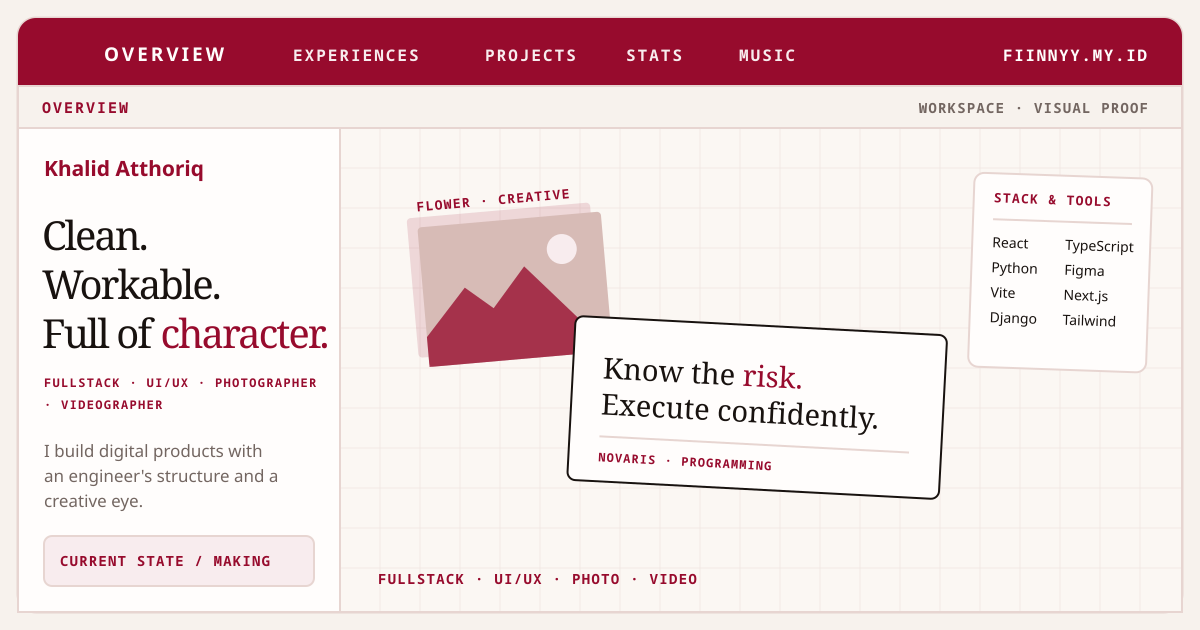
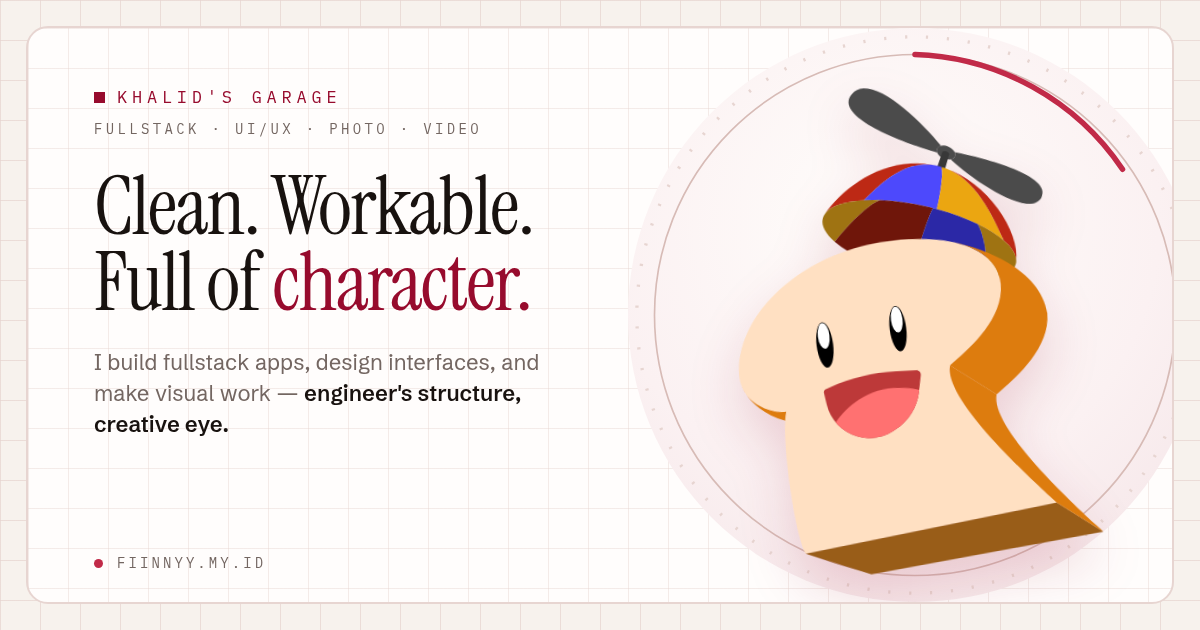
feat(og): redesign share card around the bread, first-person copy
Replace the hero-mirroring preview with a poster-style 1200x630 card: the bread mascot is the main attraction on an instrument-cluster dial, and the copy is first-person ('I build fullstack apps...'). Name the card 'Khalid's Garage'.

Add scripts/og-template.html + scripts/generate-og.mjs (npm run og) so the card is reproducible from the site's real fonts and palette via headless Chrome. Make scripts/deploy.mjs idempotent so deploys stop duplicating the 'main' key in wrangler.jsonc.

Amp-Thread-ID: https://ampcode.com/threads/T-01a105d5-7014-724a-adb2-18d53cb8af79

diff --git a/scripts/og-template.html b/scripts/og-template.html
@@ -1,0 +1,206 @@
+<!doctype html>
+<html lang="en">
+<head>
+<meta charset="utf-8" />
+<title>finny — og card</title>
+<style>
+  /* Real site fonts, referenced from public/fonts so the card carries the
+     same voice as the site. Rendered headlessly to public/og-image.png. */
+  @font-face {
+    font-family: "Schibsted Grotesk";
+    src: url("../public/fonts/schibstedgrotesk-variable.woff2") format("woff2-variations");
+    font-weight: 400 700;
+    font-style: normal;
+  }
+  @font-face {
+    font-family: "IBM Plex Mono";
+    src: url("../public/fonts/ibmplexmono-regular.woff2") format("woff2");
+    font-weight: 400;
+    font-style: normal;
+  }
+  @font-face {
+    font-family: "Instrument Serif";
+    src: url("../public/fonts/instrumentserif-regular.woff2") format("woff2");
+    font-weight: 400;
+    font-style: normal;
+  }
+  @font-face {
+    font-family: "Instrument Serif";
+    src: url("../public/fonts/instrumentserif-italic.woff2") format("woff2");
+    font-weight: 400;
+    font-style: italic;
+  }
+
+  :root {
+    --wall: #f7f2ed;
+    --paper: #fffdfc;
+    --ink: #18120f;
+    --graphite: #736661;
+    --mist: #a08f89;
+    --line: #e7d5d1;
+    --deep-line: #d7bbb6;
+    --brand: #970b2d;
+    --rosso: #c12a48;
+    --blush: #f8ecee;
+  }
+
+  * { margin: 0; padding: 0; box-sizing: border-box; }
+
+  html, body { width: 1200px; height: 630px; overflow: hidden; }
+
+  body {
+    font-family: "Schibsted Grotesk", sans-serif;
+    color: var(--ink);
+    background-color: var(--wall);
+    background-image:
+      linear-gradient(to right, rgba(231, 213, 209, 0.75) 1px, transparent 1px),
+      linear-gradient(to bottom, rgba(231, 213, 209, 0.75) 1px, transparent 1px);
+    background-size: 40px 40px;
+    -webkit-font-smoothing: antialiased;
+  }
+
+  .frame {
+    position: absolute;
+    inset: 26px;
+    border: 2px solid var(--line);
+    border-radius: 22px;
+    background: var(--paper);
+    background-image:
+      linear-gradient(to right, rgba(231, 213, 209, 0.45) 1px, transparent 1px),
+      linear-gradient(to bottom, rgba(231, 213, 209, 0.45) 1px, transparent 1px);
+    background-size: 40px 40px;
+    overflow: hidden;
+  }
+
+  /* ---- left: editorial column ---- */
+  .copy {
+    position: absolute;
+    left: 66px;
+    top: 58px;
+    width: 560px;
+    height: 486px;
+    display: flex;
+    flex-direction: column;
+  }
+
+  .eyebrow {
+    display: flex;
+    align-items: center;
+    gap: 12px;
+    font-family: "IBM Plex Mono", monospace;
+    font-size: 17px;
+    font-weight: 400;
+    letter-spacing: 0.28em;
+    text-transform: uppercase;
+    color: var(--brand);
+  }
+  .eyebrow .mark {
+    width: 11px;
+    height: 11px;
+    background: var(--brand);
+    flex: none;
+  }
+
+  .role {
+    margin-top: 12px;
+    font-family: "IBM Plex Mono", monospace;
+    font-size: 14px;
+    letter-spacing: 0.24em;
+    text-transform: uppercase;
+    color: var(--graphite);
+  }
+
+  h1 {
+    margin-top: 30px;
+    font-family: "Instrument Serif", Georgia, serif;
+    font-weight: 400;
+    font-size: 82px;
+    line-height: 0.93;
+    letter-spacing: -0.02em;
+    color: var(--ink);
+  }
+  h1 .accent { color: var(--brand); }
+
+  .lede {
+    margin-top: 26px;
+    max-width: 470px;
+    font-size: 22px;
+    line-height: 1.42;
+    color: var(--graphite);
+  }
+  .lede strong { color: var(--ink); font-weight: 600; }
+
+  .foot {
+    margin-top: auto;
+    display: flex;
+    align-items: center;
+    gap: 14px;
+    font-family: "IBM Plex Mono", monospace;
+    font-size: 14px;
+    letter-spacing: 0.22em;
+    text-transform: uppercase;
+    color: var(--graphite);
+  }
+  .foot .dot {
+    width: 9px;
+    height: 9px;
+    border-radius: 50%;
+    background: var(--rosso);
+    flex: none;
+  }
+  .foot .url { color: var(--brand); }
+
+  /* ---- right: the bread, on a dial ---- */
+  .dial {
+    position: absolute;
+    right: -30px;
+    top: 50%;
+    transform: translateY(-50%);
+    width: 574px;
+    height: 574px;
+  }
+  .disc {
+    position: absolute;
+    inset: 0;
+    border-radius: 50%;
+    background: radial-gradient(circle at 44% 34%, #fffdfb 0%, #fbf1f2 56%, #f3e2e5 100%);
+  }
+  .bread {
+    position: absolute;
+    left: 50%;
+    bottom: 30px;
+    transform: translateX(-50%) rotate(-3deg);
+    height: 486px;
+    filter: drop-shadow(0 24px 26px rgba(151, 11, 45, 0.16));
+  }
+</style>
+</head>
+<body>
+  <div class="frame">
+    <div class="copy">
+      <p class="eyebrow"><span class="mark"></span>Khalid's Garage</p>
+      <p class="role">Fullstack · UI/UX · Photo · Video</p>
+
+      <h1>Clean. Workable.<br />Full of <span class="accent">character.</span></h1>
+
+      <p class="lede">
+        I build fullstack apps, design interfaces, and make visual work —
+        <strong>engineer's structure, creative eye.</strong>
+      </p>
+
+      <p class="foot"><span class="dot"></span>fiinnyy.my.id</p>
+    </div>
+
+    <div class="dial">
+      <svg class="disc" viewBox="0 0 520 520" fill="none" aria-hidden="true">
+        <!-- tick ring — instrument-cluster nod -->
+        <circle cx="260" cy="260" r="252" fill="none" stroke="#e7d5d1" stroke-width="3" stroke-dasharray="2 17" />
+        <circle cx="260" cy="260" r="236" fill="none" stroke="#d7bbb6" stroke-width="1.5" />
+        <!-- redline arc -->
+        <path d="M 260 24 A 236 236 0 0 1 448 128" fill="none" stroke="#c12a48" stroke-width="5" stroke-linecap="round" />
+      </svg>
+      <img class="bread" src="../public/icons/logo-navbar.svg" alt="" />
+    </div>
+  </div>
+</body>
+</html>

diff --git a/src/routes/__root.tsx b/src/routes/__root.tsx
@@ -54,22 +54,22 @@ function RootComponent() {
         />
         <link rel="icon" type="image/svg+xml" href="/icons/logo-web.svg" />
         <title>Khalid Atthoriq | Fullstack Creative Developer</title>
-        <meta name="description" content="Khalid Atthoriq is a Fullstack Creative Developer working across digital products, UI/UX, photography, and video." />
+        <meta name="description" content="I'm Khalid Atthoriq — I build fullstack apps, design interfaces, and make visual work with an engineer's structure and a creative eye." />
         <link rel="canonical" href="https://fiinnyy.my.id/" />
         <meta property="og:type" content="website" />
         <meta property="og:site_name" content="Khalid Atthoriq" />
         <meta property="og:title" content="Khalid Atthoriq | Fullstack Creative Developer" />
-        <meta property="og:description" content="Khalid Atthoriq is a Fullstack Creative Developer working across digital products, UI/UX, photography, and video." />
+        <meta property="og:description" content="I'm Khalid Atthoriq — I build fullstack apps, design interfaces, and make visual work with an engineer's structure and a creative eye." />
         <meta property="og:url" content="https://fiinnyy.my.id/" />
         <meta property="og:image" content="https://fiinnyy.my.id/og-image.png" />
-        <meta property="og:image:alt" content="Khalid Atthoriq portfolio preview" />
+        <meta property="og:image:alt" content="Khalid Atthoriq — Clean. Workable. Full of character." />
         <meta property="og:image:width" content="1200" />
         <meta property="og:image:height" content="630" />
         <meta name="twitter:card" content="summary_large_image" />
         <meta name="twitter:title" content="Khalid Atthoriq | Fullstack Creative Developer" />
-        <meta name="twitter:description" content="Khalid Atthoriq is a Fullstack Creative Developer working across digital products, UI/UX, photography, and video." />
+        <meta name="twitter:description" content="I'm Khalid Atthoriq — I build fullstack apps, design interfaces, and make visual work with an engineer's structure and a creative eye." />
         <meta name="twitter:image" content="https://fiinnyy.my.id/og-image.png" />
-        <meta name="twitter:image:alt" content="Khalid Atthoriq portfolio preview" />
+        <meta name="twitter:image:alt" content="Khalid Atthoriq — Clean. Workable. Full of character." />
       </head>
       <body>
         <BootScreen onDone={handleBootDone} />
